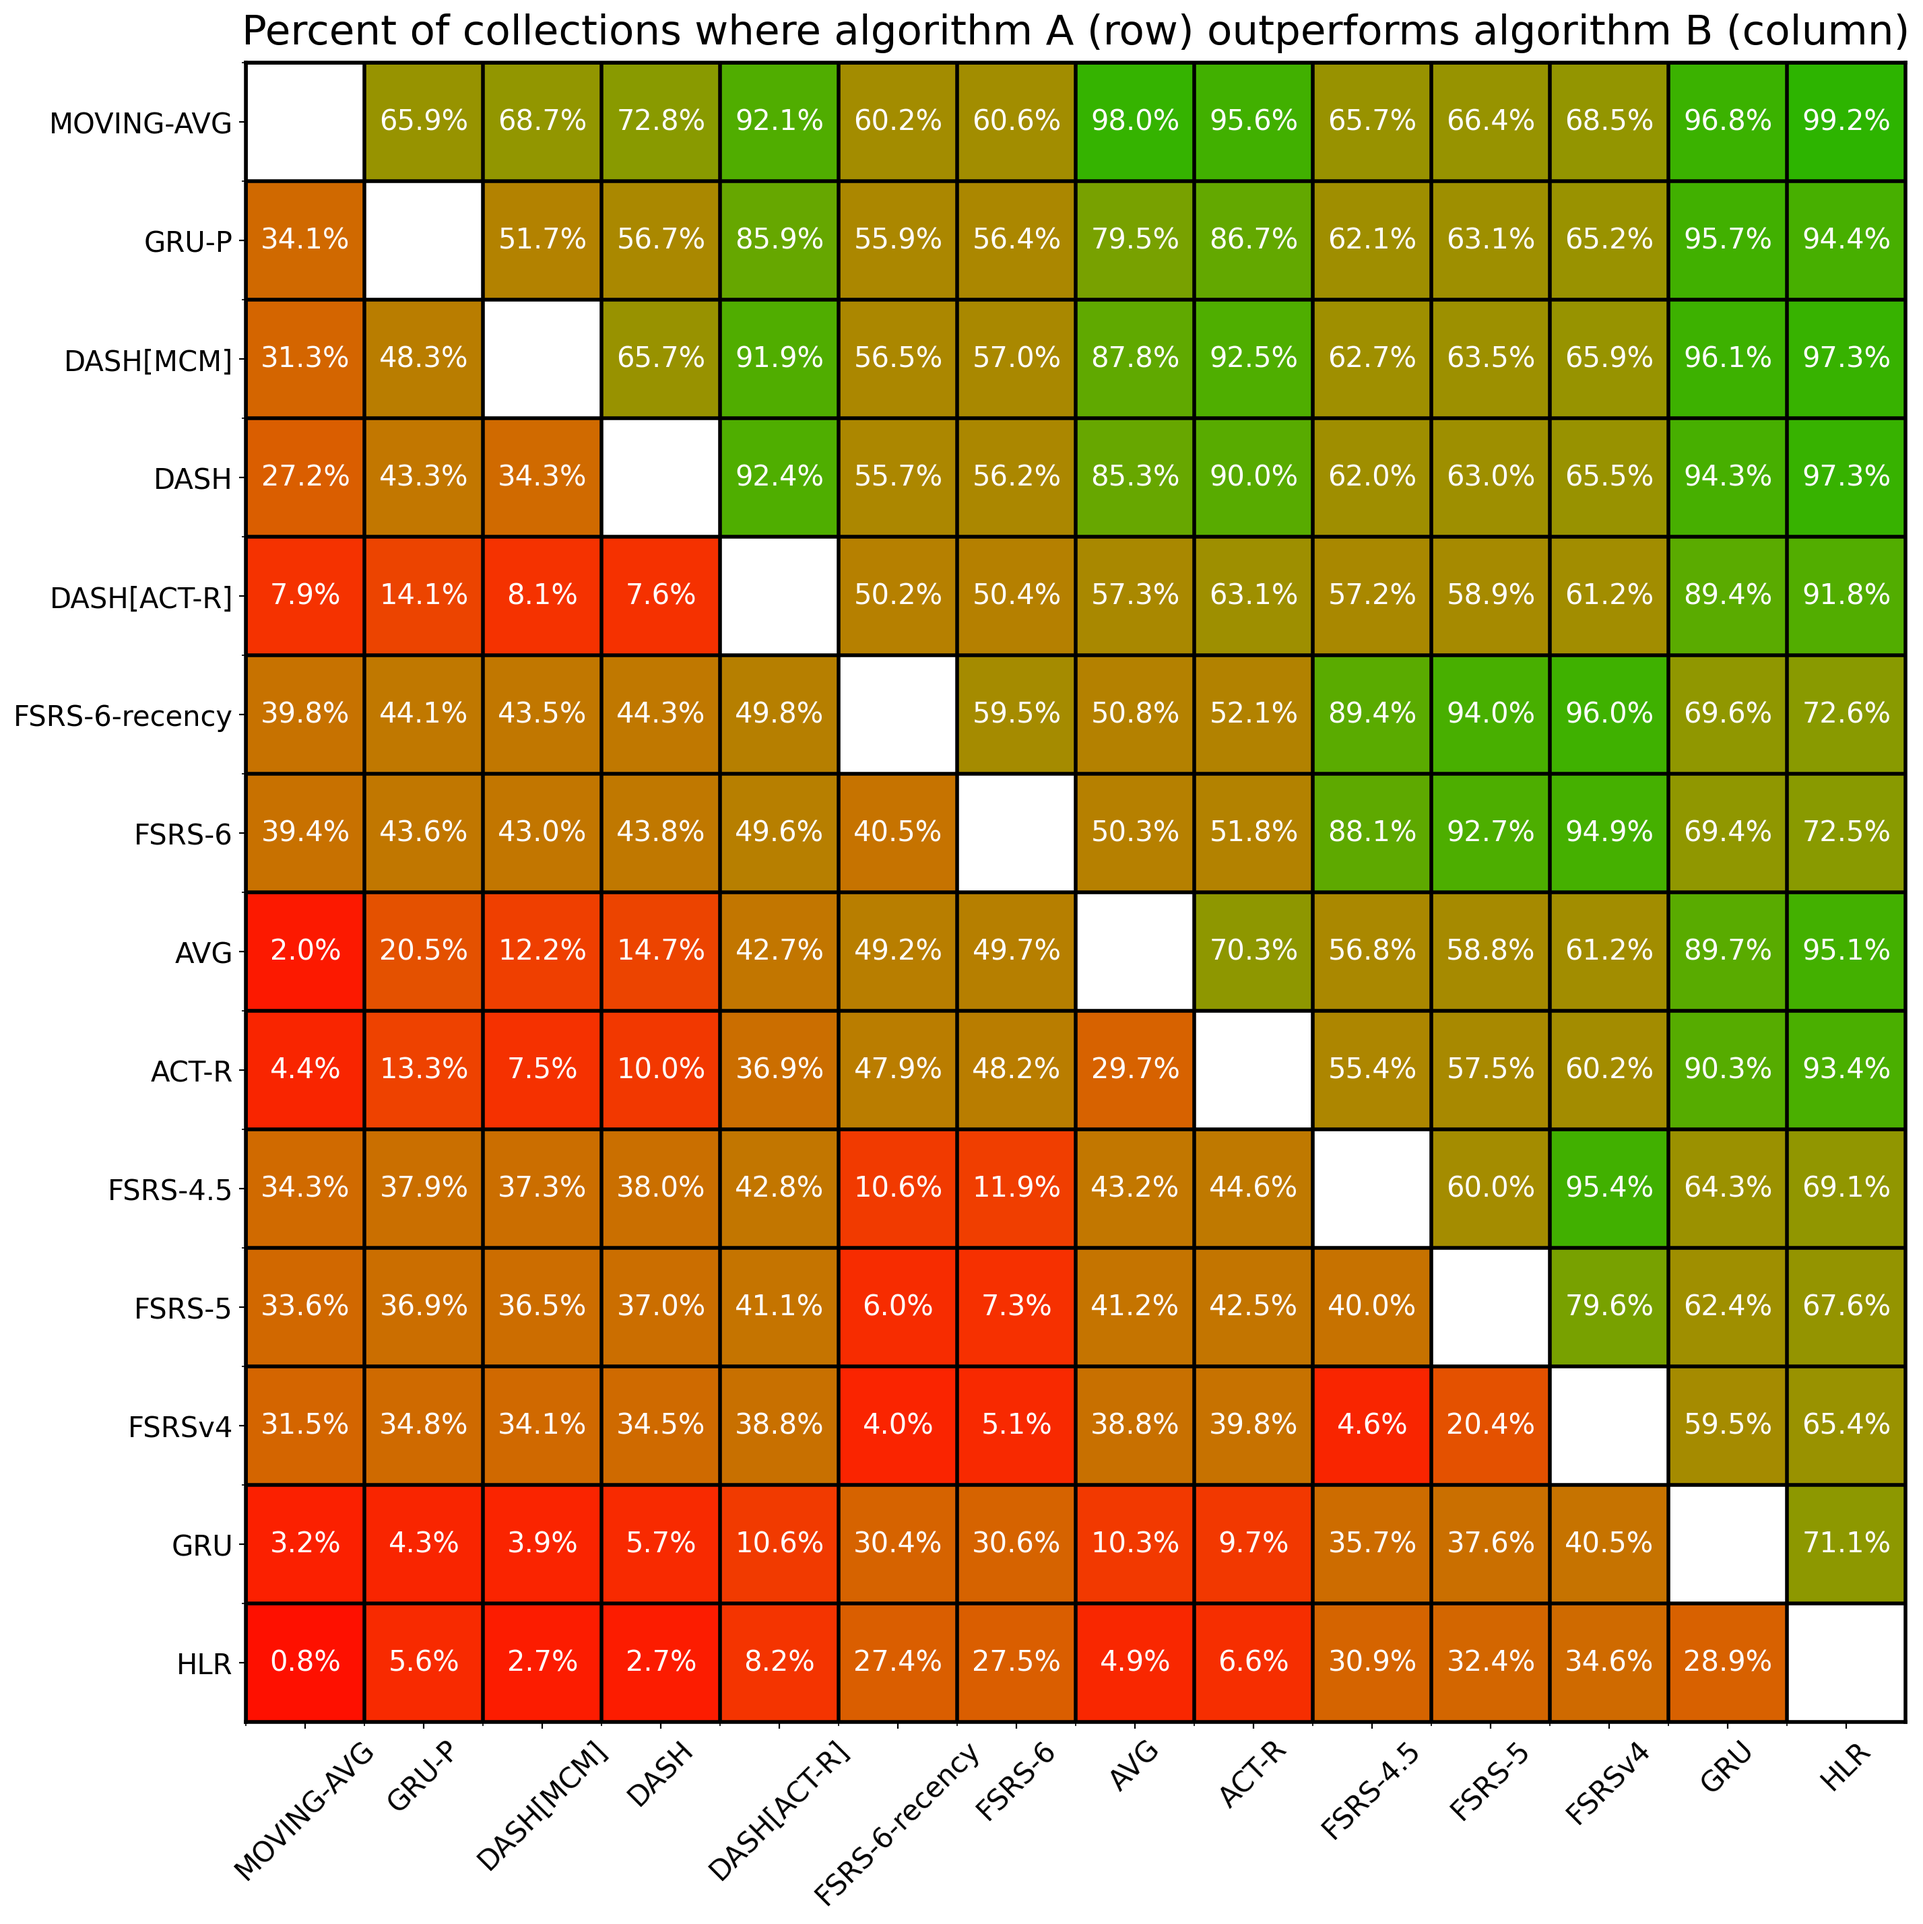
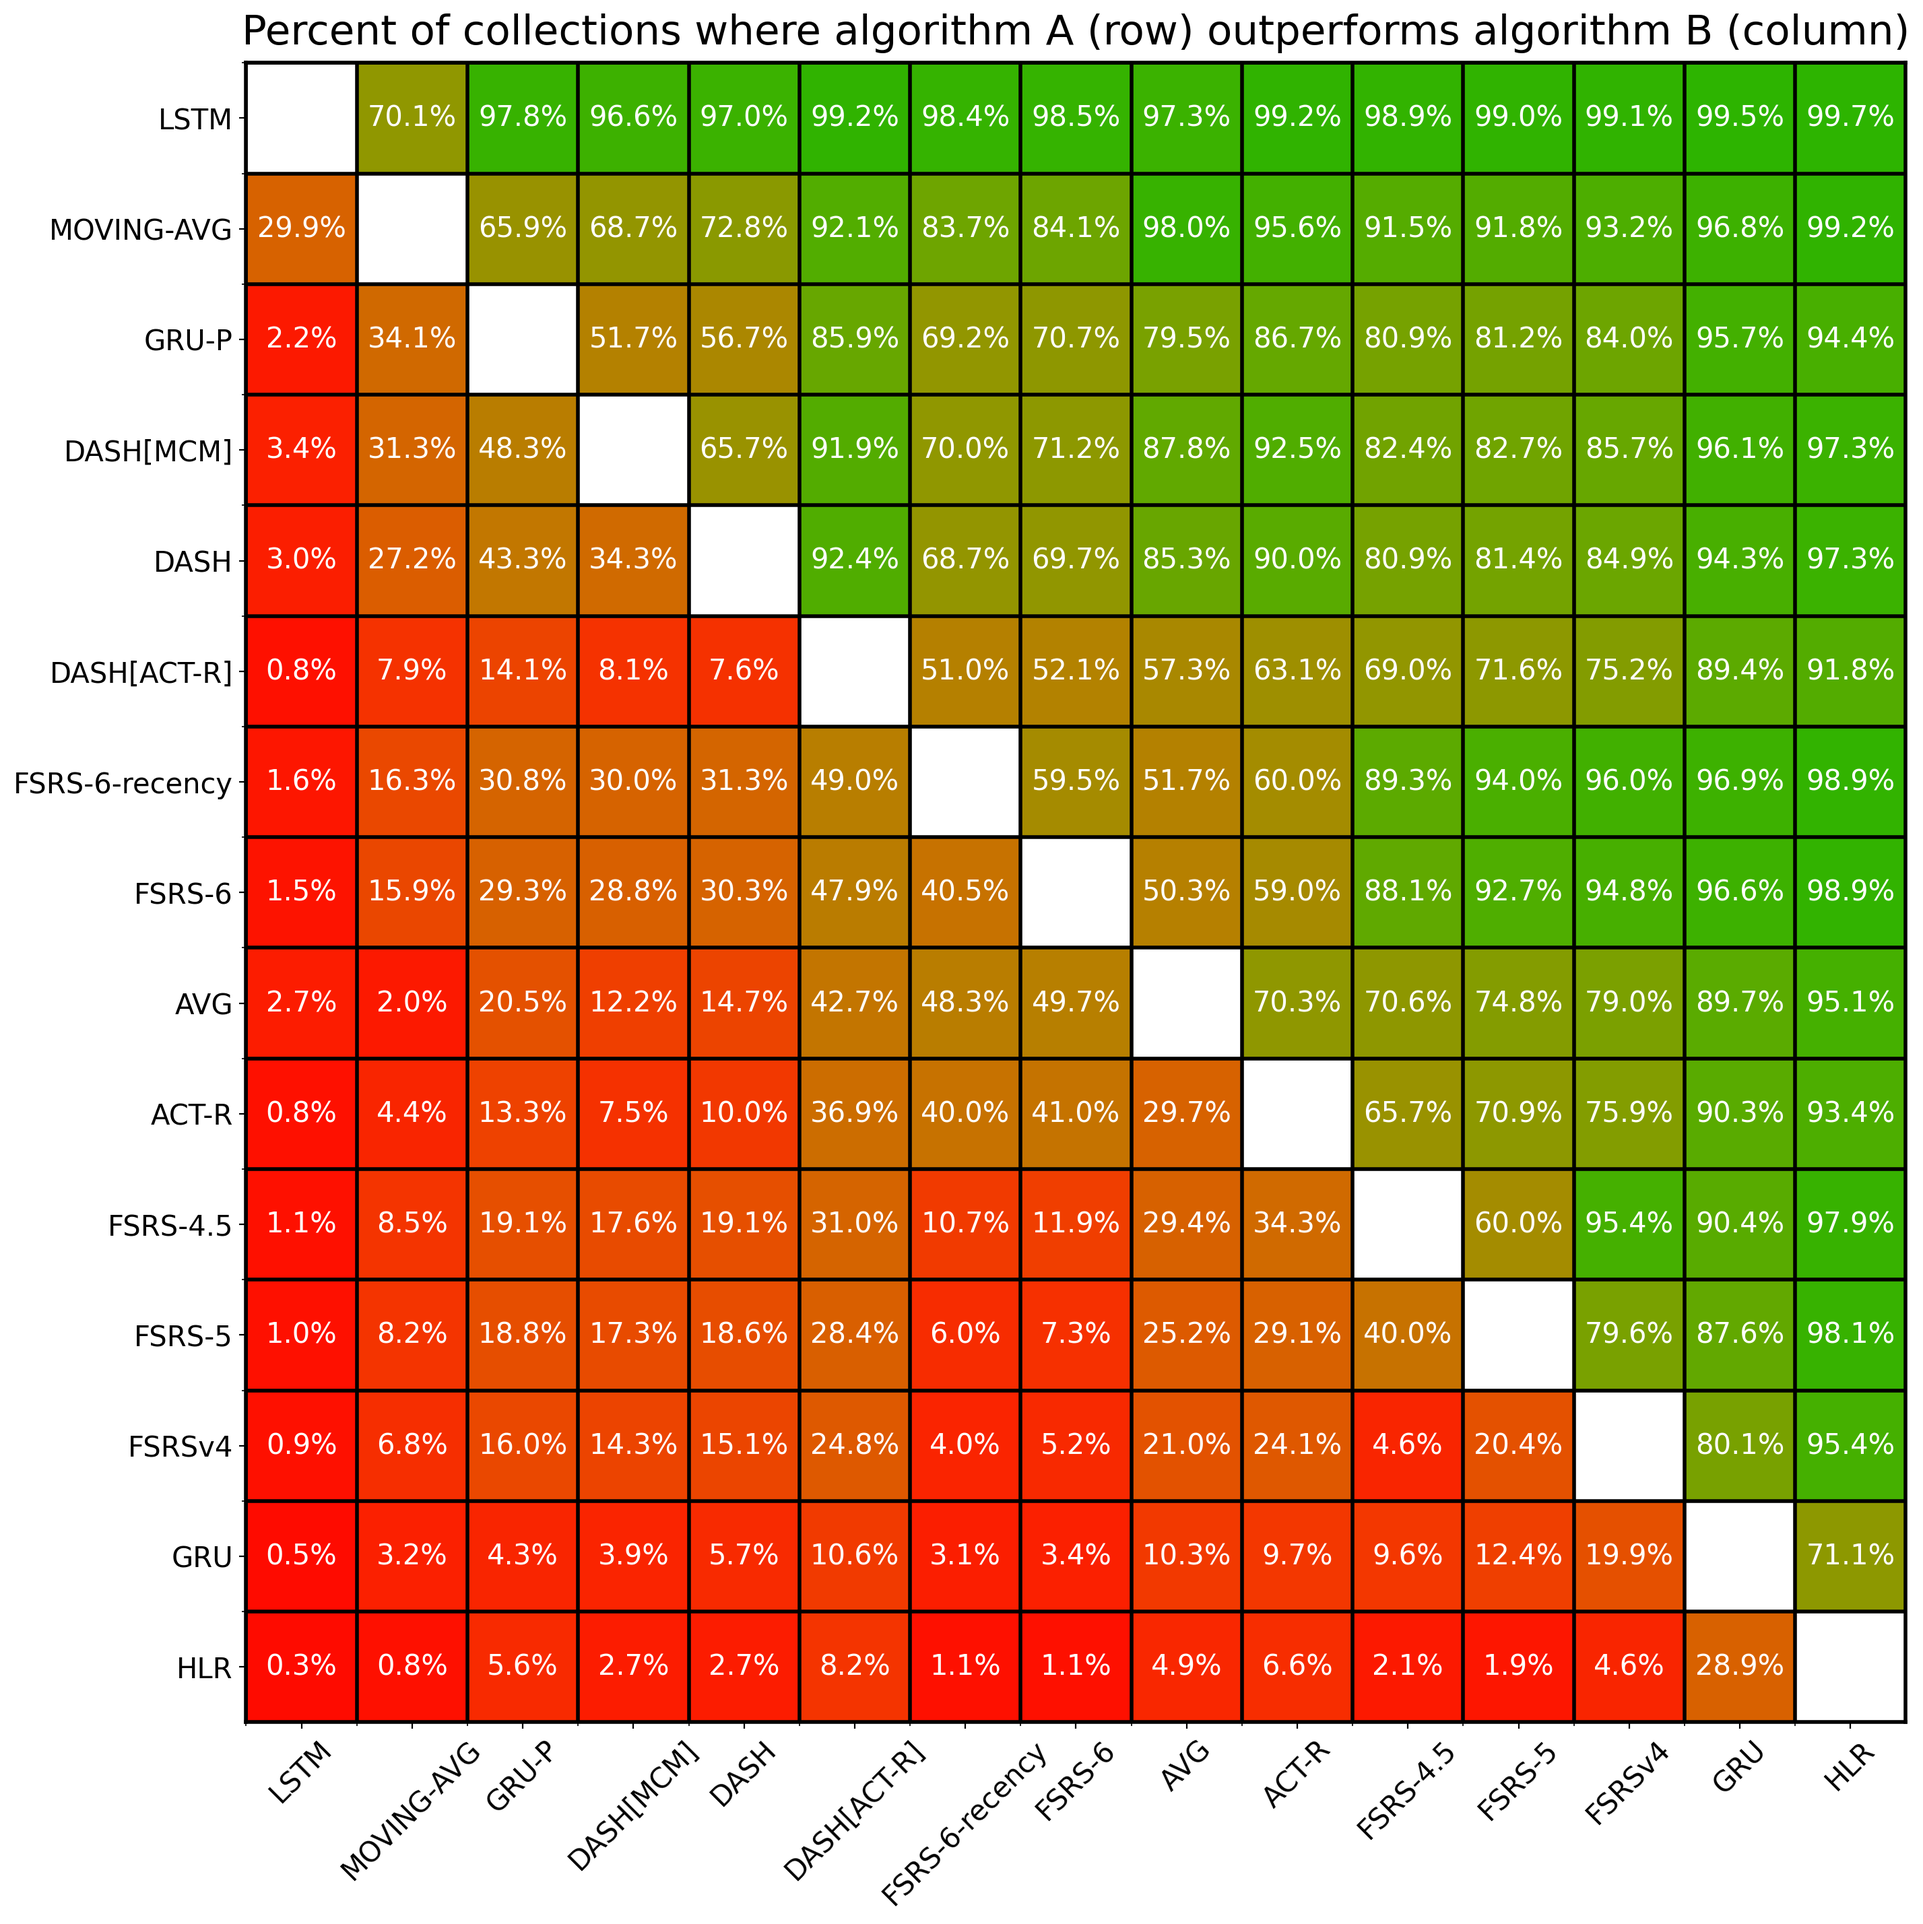
update metrics

diff --git a/evaluate.py b/evaluate.py
@@ -144,6 +144,7 @@ if __name__ == "__main__":
         if not args.secs
         else [
             (dev_mode_name, None, None),
+            ("LSTM-short-secs", 8869, "FIL, G, SR, AT"),
             ("MOVING-AVG-short-secs", 0, "---"),
             ("GRU-P-short-secs", 297, "FIL, G, SR"),
             ("DASH[MCM]-short-secs", 9, "FIL, G, SR"),
@@ -157,7 +158,6 @@ if __name__ == "__main__":
             ("FSRSv4-short-secs", 17, "FIL, G, SR"),
             ("FSRS-5-secs", 19, "FIL, G, SR"),
             ("GRU-short-secs", 39, "FIL, G, SR"),
-            ("Ebisu-v2", 0, "FIL, G, SR"),
             ("HLR-short-secs", 3, "FIL, G, SR"),
             ("Anki-short-secs", 7, "FIL, G, SR"),
             ("SM2-trainable-short-secs", 6, "FIL, G, SR"),

diff --git a/superiority_small.py b/superiority_small.py
@@ -16,6 +16,7 @@ if __name__ == "__main__":
     args = parser.parse_args()
     if args.same_day:
         models = [
+            "LSTM-short-secs",
             "MOVING-AVG-short-secs",
             "GRU-P-short-secs",
             "DASH[MCM]-short-secs",

diff --git a/README.md b/README.md
@@ -139,6 +139,7 @@ Same-day reviews are used for evaluation. Here the probability of recall is calc
 
 | Model | Parameters | Log Loss↓ | RMSE(bins)↓ | AUC↑ | Input features |
 | --- | --- | --- | --- | --- | --- |
+| LSTM | 8869 | 0.3140±0.0038 | 0.05200±0.00077 | 0.7622±0.0018 | FIL, G, SR, AT |
 | MOVING-AVG | 0 | 0.3301±0.0044 | 0.0789±0.0010 | 0.7077±0.0024 | --- |
 | DASH[MCM] | 9 | 0.3459±0.0042 | 0.0884±0.0011 | 0.6663±0.0025 | FIL, G, SR |
 | GRU-P | 297 | 0.3487±0.0040 | 0.0838±0.0011 | 0.6457±0.0033 | FIL, G, SR |
